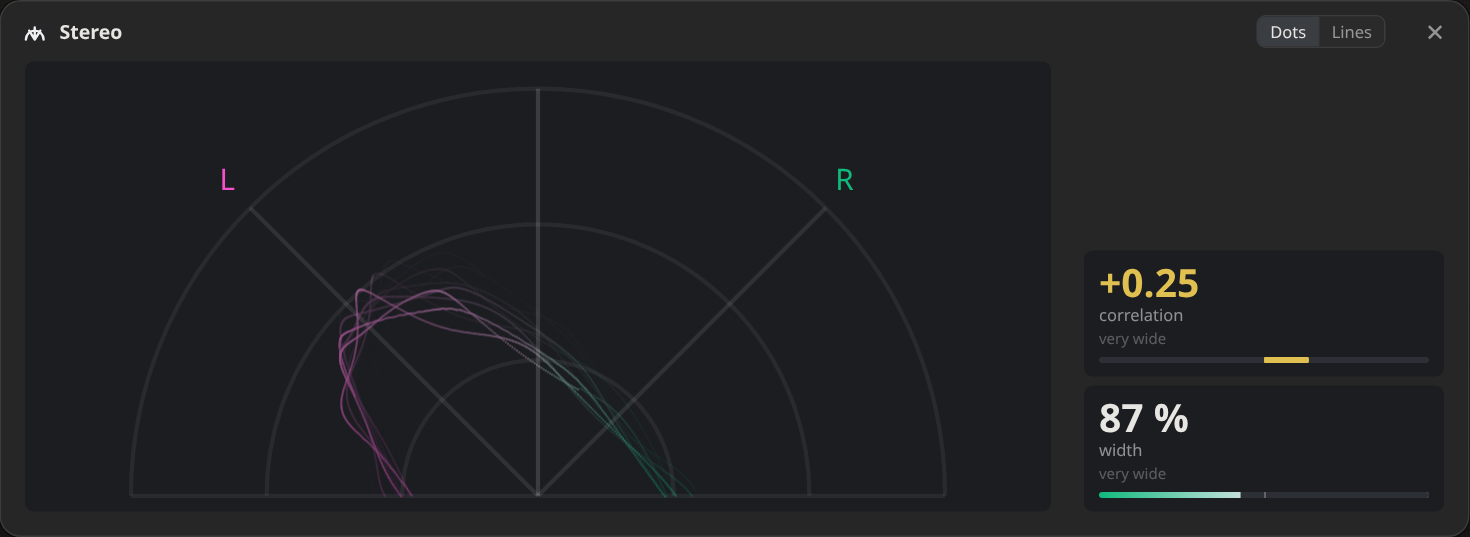
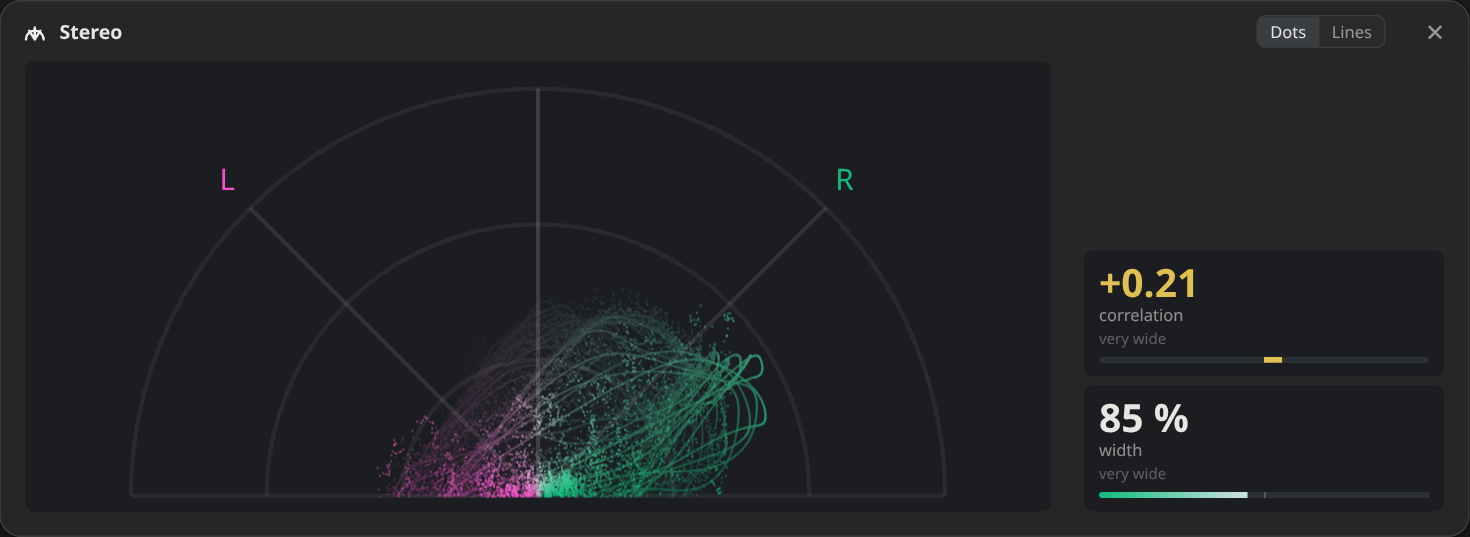
perf(shots): the shots and the README pictures drawn on the real GPU
The owner asked why the shots weren't rendered on the GPU. On SwiftShader,
which draws WebGL on the CPU, a full run was CPU-bound at ~64 s. Now
Chrome uses the real GPU through ANGLE on OpenGL, with the flags
./run.sh perf already used. With the CPU free, more shots fit at once: 6
Chromes x 4 pages, 210 shots in ~34 s, three runs clean in a row. Past 32
pages at once Chrome refused WebGL contexts ("no WebGL2"), so 24, which
leaves room for the owner's own PipeBoard window on the same GPU.

readme.py uses the same flags: 35 s -> 22 s. On SwiftShader the stereo
scope drew a few thin traces; on the GPU it draws its dot cloud again, so
the README's two stereo pictures are rendered again here (the rest only
differ by the moment of music, and are kept as they were).

diff --git a/pipeboard/web/gl.js b/pipeboard/web/gl.js
@@ -5,7 +5,7 @@
 // comes into it; plain canvases in the page, so the layering with cards, menus and panels is what
 // it was. (Measured on the owner's GPU, 2026-11-09: nine surfaces at 60 fps cost 15 ms/s of the
 // page's time this way; a bitmap handed to each instead cost 430, the context resized for each.)
-// WebGL2 only (owner): the app runs in its own Chrome window; the shots draw through SwiftShader.
+// WebGL2 only (owner): the app runs in its own Chrome window; the shots draw on the GPU too.
 "use strict";
 
 const GL = (() => {

diff --git a/scripts/shots.py b/scripts/shots.py
@@ -6,11 +6,12 @@
     ./run.sh shots --list          what there is
     ./run.sh shots icon            the app and tray icons at every size -> .dev/shots/icon.png
 
-Six Chromes stay open for the run (Playwright, fetched by `uv run --with playwright`), two
-shots at a time in each, a fresh context per shot. No server and no PipeWire: each page is
-index.html with the scenario's model injected as window.PB_BOOT, plus a line of JS ("after")
-that puts the UI in a state (a menu open, a wire being dragged...). The page audits itself (cards overlapping, text clipped, things off screen,
-console errors) and the faults are printed; the exit code is the number of faulty shots.
+Six Chromes on the real GPU stay open for the run (Playwright, fetched by `uv run --with
+playwright`), four shots at a time in each, a fresh context per shot. No server and no PipeWire:
+each page is index.html with the scenario's model injected as window.PB_BOOT, plus a line of JS
+("after") that puts the UI in a state (a menu open, a wire being dragged...). The page audits
+itself (cards overlapping, text clipped, things off screen, console errors) and the faults are
+printed; the exit code is the number of faulty shots.
 Look at the PNGs after every visual change.
 """
 
@@ -617,19 +618,21 @@ def _chrome() -> str:
     sys.exit("shots: needs google-chrome or chromium")
 
 
-# (WebGL through SwiftShader as the whole GPU, the page's canvases with it: with --disable-gpu
-# each copy into a canvas was read back, and a scope's panel took 9 s, not 3)
-FLAGS = ["--use-gl=angle", "--use-angle=swiftshader", "--enable-unsafe-swiftshader", "--hide-scrollbars"]
+# The real GPU (owner: "can't we use GPU to render the shots at all?"), through ANGLE on OpenGL as
+# scripts/perf.py draws: 210 shots in ~32 s, not ~64 on SwiftShader (which draws WebGL on the
+# CPU, and the run was CPU-bound on it).
+FLAGS = ["--use-gl=angle", "--use-angle=gl", "--enable-gpu", "--ignore-gpu-blocklist", "--hide-scrollbars"]
 # Chromes kept open for the whole run, each shot a fresh context in one (its own storage, as a
 # profile of its own was), its picture and its audit from the same load: a Chrome per picture and
 # another per audit, ~1.2 s each to start and load, were most of a run's 4 minutes. Several
-# Chromes, not one: one Chrome's GPU process draws every page's WebGL, and 16 pages in one
-# starved the scopes. Measured on the owner's 16 cores (210 shots): 1 Chrome × 8 pages 96 s,
-# 4 × 2 76 s, 6 × 2 62 s, 8 × 2 57 s with a stereo shot faulting (the run is CPU-bound by then:
-# SwiftShader draws on the CPU, and a scope starved of frames draws too little).
+# Chromes, not one: a Chrome's GPU process draws all its pages' WebGL (one Chrome, 16 pages: slower
+# than 8 × 2). Measured on the owner's 16 cores and RTX 3080 Ti (210 shots): 6 × 2 47 s, 4 × 6 34,
+# 6 × 4 32.5, 8 × 4 31; past 32 pages at once Chrome began refusing WebGL contexts ("no WebGL2"):
+# 6 × 4 leaves room for the owner's own PipeBoard window on the same GPU. From there most of a run
+# is each shot's settle.
 # Real time, not --virtual-time-budget: through Playwright a page whose virtual time ran out
 # never painted again. SETTLE_MS: as long as the budget was; 1 000 faulted the stereo shots.
-BROWSERS, PER_BROWSER, SETTLE_MS = 6, 2, 1500
+BROWSERS, PER_BROWSER, SETTLE_MS = 6, 4, 1500
 
 
 async def _open(browser, size: tuple, page: Path):
@@ -664,8 +667,8 @@ async def _shoot_all(pages: dict) -> list[tuple[str, list[str]]]:
         gates = [asyncio.Semaphore(PER_BROWSER) for _ in browsers]
 
         async def one(i: int, name: str) -> tuple[str, list[str]]:
-            # (once more if it hangs: under a heavy load SwiftShader now and then never finished a
-            # page; twice, it is a fault, not the end of the run)
+            # (once more if it fails or hangs: under a heavy load a page now and then never
+            # finished; twice, it is a fault, not the end of the run)
             async with gates[i % BROWSERS]:
                 for attempt in (1, 2):
                     try:

diff --git a/scripts/perf.py b/scripts/perf.py
@@ -3,7 +3,7 @@ sound for a few seconds, measured through the DevTools protocol.
 
     ./run.sh perf                  every scene, on the GPU
     ./run.sh perf wires scopes     only these
-    ./run.sh perf --cpu            software rendering (SwiftShader, as the shots draw)
+    ./run.sh perf --cpu            software rendering (SwiftShader)
     ./run.sh perf --json out.json  also write the numbers
     ./run.sh perf --uncapped       frames as fast as they come (no vsync): the fps it could reach
                                    (owner's screen: 240 Hz, a frame every 4.2 ms)
@@ -53,7 +53,7 @@ SCENES = {
 }
 GPU = ["--use-gl=angle", "--use-angle=gl", "--enable-gpu", "--ignore-gpu-blocklist"]
 UNCAPPED = ["--disable-gpu-vsync", "--disable-frame-rate-limit"]
-CPU = ["--use-gl=angle", "--use-angle=swiftshader", "--enable-unsafe-swiftshader"]  # (as the shots draw)
+CPU = ["--use-gl=angle", "--use-angle=swiftshader", "--enable-unsafe-swiftshader"]
 PROBE = """(() => { const g = document.createElement('canvas').getContext('webgl2'), x = g && g.getExtension('WEBGL_debug_renderer_info');
   return g ? (x ? g.getParameter(x.UNMASKED_RENDERER_WEBGL) : 'webgl2') : 'none'; })()"""
 FRAMES = "window.__ft = []; (function f(t) { __ft.push(t); requestAnimationFrame(f); })(performance.now())"

diff --git a/scripts/readme.py b/scripts/readme.py
@@ -183,7 +183,7 @@ def main() -> None:
 
     def run(chunk: list) -> None:
         with sync_playwright() as p:  # (one per thread: Playwright's sync API keeps to its own)
-            browser = p.chromium.launch(executable_path=shots._chrome(), args=["--allow-file-access-from-files"])
+            browser = p.chromium.launch(executable_path=shots._chrome(), args=["--allow-file-access-from-files", *shots.FLAGS])  # (the real GPU, as the shots)
             for name in chunk:
                 take(browser, name, pages[name], SHOTS[name][3])
             browser.close()

diff --git a/docs/PLAN.md b/docs/PLAN.md
@@ -1356,8 +1356,9 @@ hidden, Portals on, tidied). Animations step the page's fake wire sound through 
 (`PLAIN` in the script: the interface, the pedal, games and apps renamed) and Show latency on. The diagnostic pictures play a few seconds of real
 music recorded passively from the owner's Waveform card (`.dev/readme-sound.raw`, not kept in
 git). The owner's `diag.mp4` gets a GIF preview: GitHub does not play a video file from the
-repository, so the README links the preview to it. Four Chromes take the pictures at once, the
-two GIFs in different ones (one after another: 84 s, nearly all a still's 2.2 s wait; now ~35 s).
+repository, so the README links the preview to it. Four Chromes on the GPU take the pictures at
+once, the two GIFs in different ones (one after another: 84 s, nearly all a still's 2.2 s wait;
+now ~22 s).
 
 UI work is seen, not guessed. `./run.sh shots` renders the page in headless Chrome for each
 scenario (board, small window, Pedal loop, problems open, wire being dragged, wire selected, add
@@ -1365,22 +1366,23 @@ menu, card menu with name history, renaming, zoomed out, empty), writes `.dev/sh
 and a contact sheet `.dev/shots/sheet.png`, and prints the page's self-audit: cards overlapping,
 cards off screen, text clipped, menus or hints leaving the window, bar running into the problem
 button, NaN in a wire, wires not drawn (no pixel of the wire canvas lit), console errors. Exit
-code = faulty shots. Chrome draws with SwiftShader as its whole GPU (`--use-angle=swiftshader`),
-so the WebGL pictures render; with `--disable-gpu` each copy into a canvas was read back and a
-scope's panel took 9 s, not 3. **Fast** (owner: "shouldn't those be pretty much instant?"): six
-Chromes stay open for the whole run (Playwright), two shots at a time in each, every shot a fresh
-context whose one load gives both its picture and its audit; 210 shots in ~62 s, not 242 (a
-Chrome per picture and another per audit, ~1.2 s each to start and load, were most of it). One
-Chrome's GPU process draws all its pages' WebGL, so several, not one with many pages (16 in one:
-slower, and the scopes starved). Real time: each shot settles 1.5 s, waits (4 s at most) until its
+code = faulty shots. **Fast** (owner: "shouldn't those be pretty much instant?", then "can't we
+use GPU to render the shots at all?"): six Chromes on the real GPU (ANGLE on OpenGL, as
+`./run.sh perf`) stay open for the whole run (Playwright), four shots at a time in each, every
+shot a fresh context whose one load gives both its picture and its audit; 210 shots in ~34 s, not
+242 (a Chrome per picture and another per audit, ~1.2 s each to start and load, were most of it;
+on SwiftShader, which draws WebGL on the CPU, the run was CPU-bound at ~64 s, and its scopes drew
+thin: the README's stereo picture lost its dot cloud). One Chrome's GPU process draws all its
+pages' WebGL, so several, not one with many pages; past 32 pages at once Chrome refused WebGL
+contexts, so 24, leaving room for the owner's own window. Real time: each shot settles 1.5 s, waits (4 s at most) until its
 pictures have drawn (`PB.drawn`: the wires and every scope that heard sound; under load a scope's
 first frame came up to 3 s late; one that never draws is a fault), and is audited again as it is
 pictured. A shot that needs longer says so (`window.PB_WAIT`, as `gl-restore` and the stereo
 centre check do, waiting for draws, not set times). Not Chrome's virtual time: through
 Playwright a page whose virtual time ran out never painted again. The page is laid out at the
 shot's full size (the old command-line Chrome laid out 87 px less than the picture it saved). A
-shot that fails or hangs is tried once more, then a fault. From here the run is CPU-bound
-(SwiftShader draws on the CPU).
+shot that fails or hangs is tried once more, then a fault. Most of a run is now each shot's
+settle. `scripts/readme.py` draws on the GPU too.
 `./run.sh perf` measures what drawing costs: headless Chrome on the real GPU, each scene animating
 with made-up sound, CPU of every Chrome process, the page's own thread, frame intervals;
 `--uncapped` draws without vsync, for the fps it could reach.
